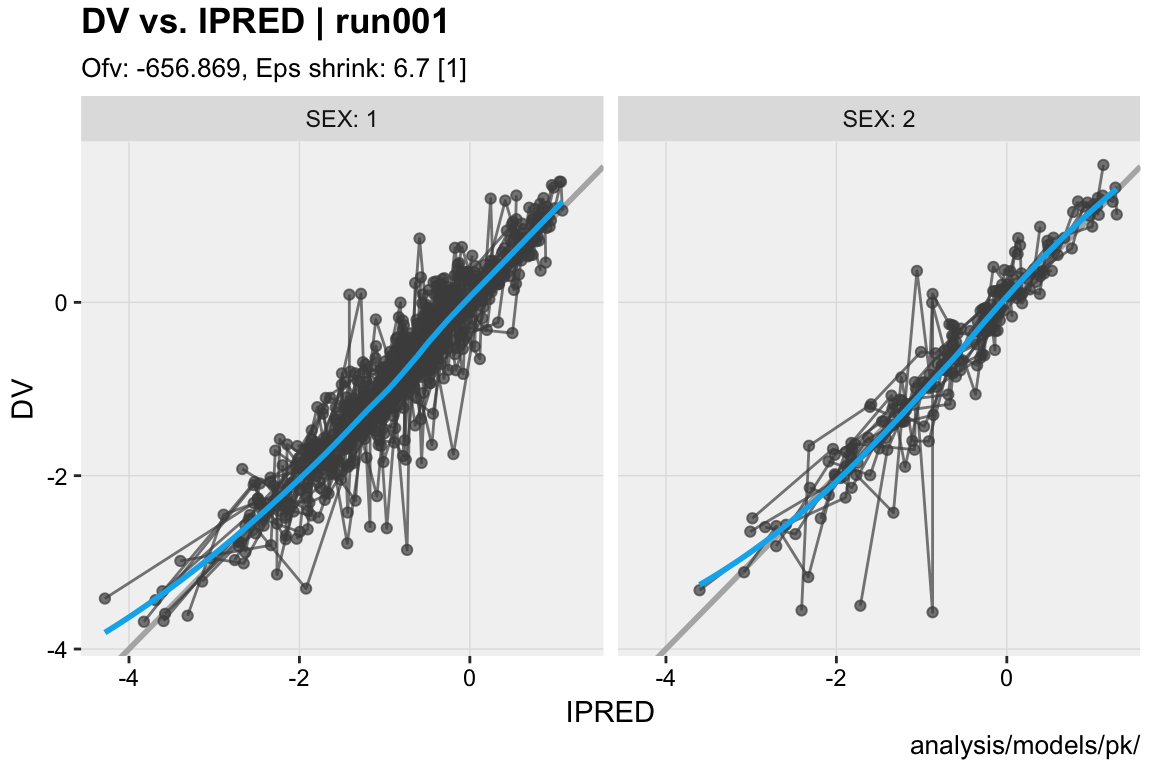
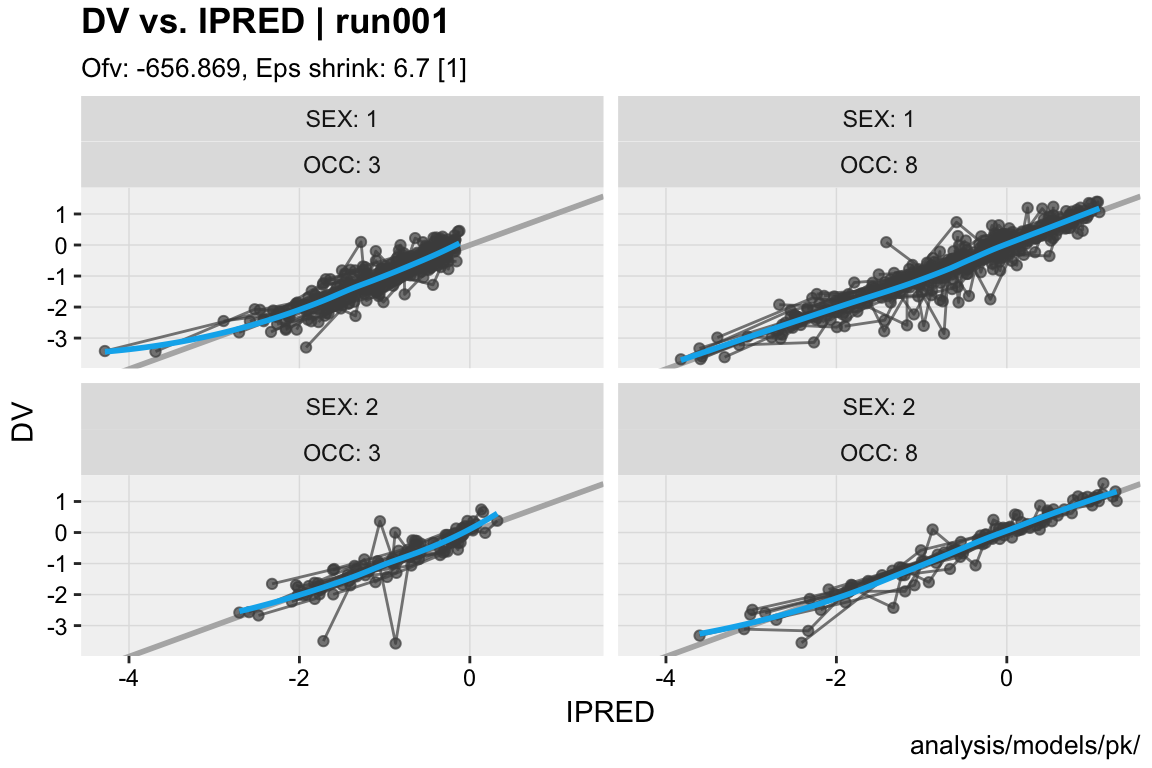
updated vignettes on faceting

diff --git a/docs/articles/customizing_plots.html b/docs/articles/customizing_plots.html
@@ -160,10 +160,18 @@
 <div id="panels" class="section level3">
 <h3 class="hasAnchor">
 <a href="#panels" class="anchor"></a>Panels</h3>
-<p>Panels (or faceting) can be created by using the <code>facets</code> argument as follows.</p>
-<div class="sourceCode"><pre class="sourceCode r"><code class="sourceCode r"><span class="kw"><a href="../reference/dv_vs_pred.html">dv_vs_ipred</a></span>(xpdb, <span class="dt">facets =</span> <span class="st">'SEX'</span>)</code></pre></div>
+<p>Panels (or faceting) can be created by using the <code>facets</code> argument as follows:</p>
+<ul>
+<li>If <code>facets</code> is a string e.g <code>facets = "OCC"</code>, <code>ggplot2::facet_wrap</code> will be used</li>
+<li>If <code>facets</code> is a formula e.g <code>facets = SEX~OCC</code>, <code>ggplot2::facet_grid</code> will be used</li>
+</ul>
+<div class="sourceCode"><pre class="sourceCode r"><code class="sourceCode r"><span class="co"># Example with a string</span>
+<span class="kw"><a href="../reference/dv_vs_pred.html">dv_vs_ipred</a></span>(xpdb, <span class="dt">facets =</span> <span class="kw">c</span>(<span class="st">'SEX'</span>, <span class="st">'OCC'</span>))</code></pre></div>
 <p><img src="customizing_plots_files/figure-html/demo%20panels-1.png" width="75%" style="display: block; margin: auto;"></p>
-<p>Additional arguments can be passed to the panel function using the <code>panel_xxx</code> notation (e.g. <code>panel_ncol = 2</code>, <code>panel_labeller = 'label_both'</code>). For more options read the help of <a href="http://docs.ggplot2.org/current/facet_wrap.html"><code>facet_wrap</code></a> from <code>ggplot2</code>.</p>
+<div class="sourceCode"><pre class="sourceCode r"><code class="sourceCode r"><span class="co"># Example with a formula</span>
+<span class="kw"><a href="../reference/dv_vs_pred.html">dv_vs_ipred</a></span>(xpdb, <span class="dt">facets =</span> SEX~OCC)</code></pre></div>
+<p><img src="customizing_plots_files/figure-html/demo%20panels-2.png" width="75%" style="display: block; margin: auto;"></p>
+<p>Additional arguments can be passed to the panel function using the <code>panel_xxx</code> notation (e.g. <code>panel_ncol = 2</code>, <code>panel_labeller = 'label_both'</code>). For more options read the help of <a href="http://ggplot2.tidyverse.org/reference/facet_wrap.html"><code>facet_wrap</code></a> and <a href="http://ggplot2.tidyverse.org/reference/facet_grid.html"><code>facet_grid</code></a> from <code>ggplot2</code>.</p>
 </div>
 <div id="additional-layers" class="section level3">
 <h3 class="hasAnchor">
